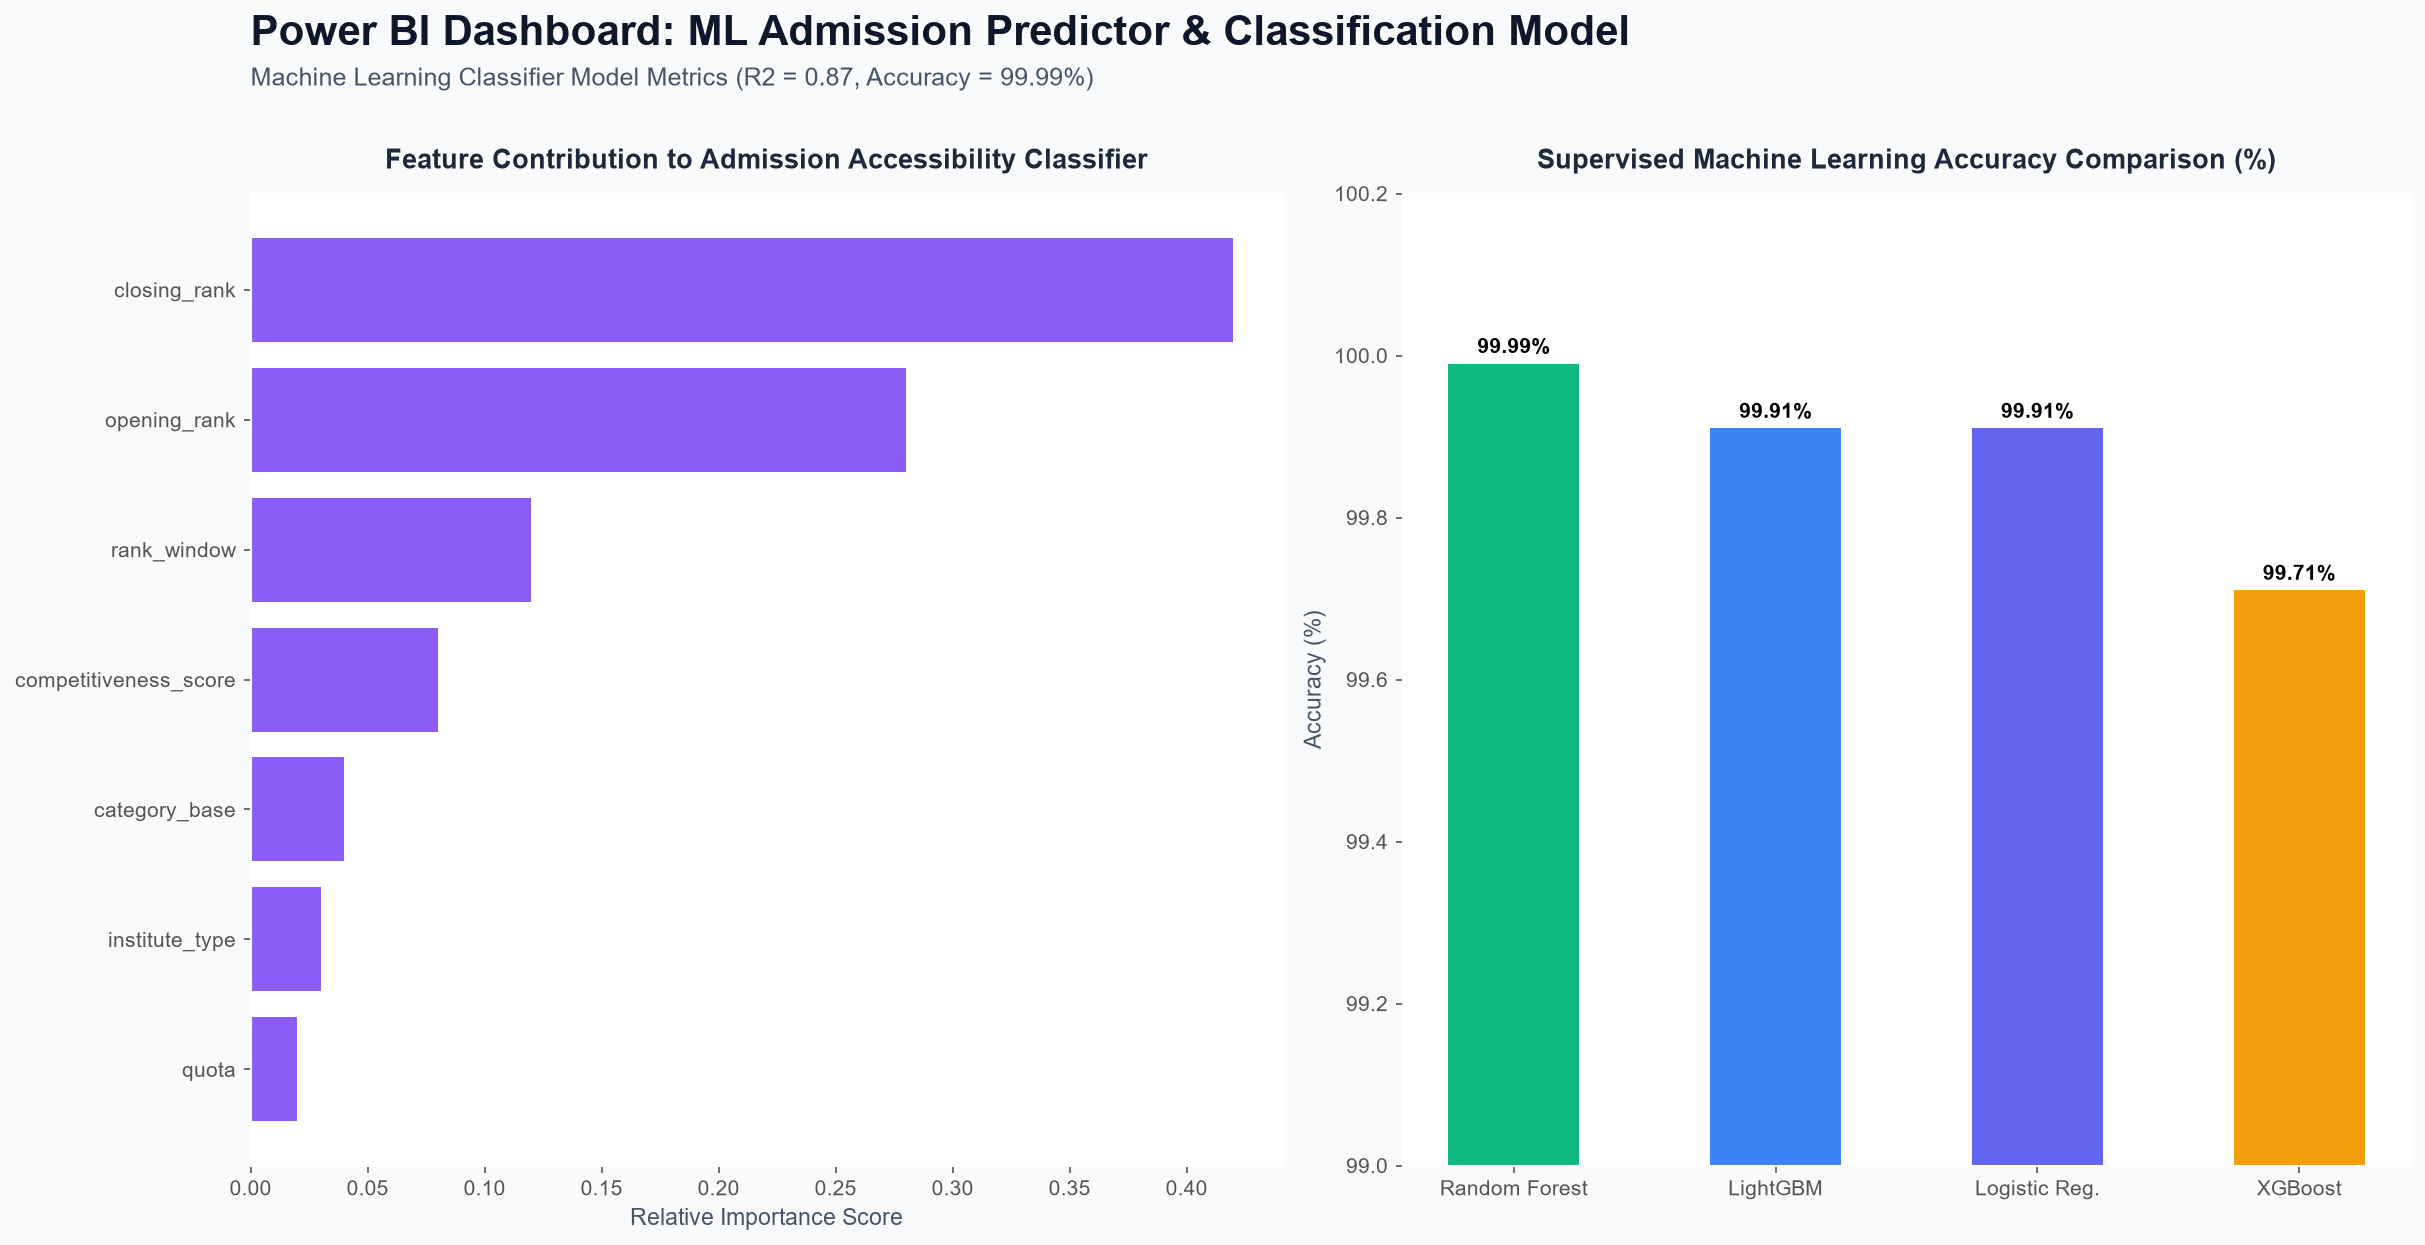
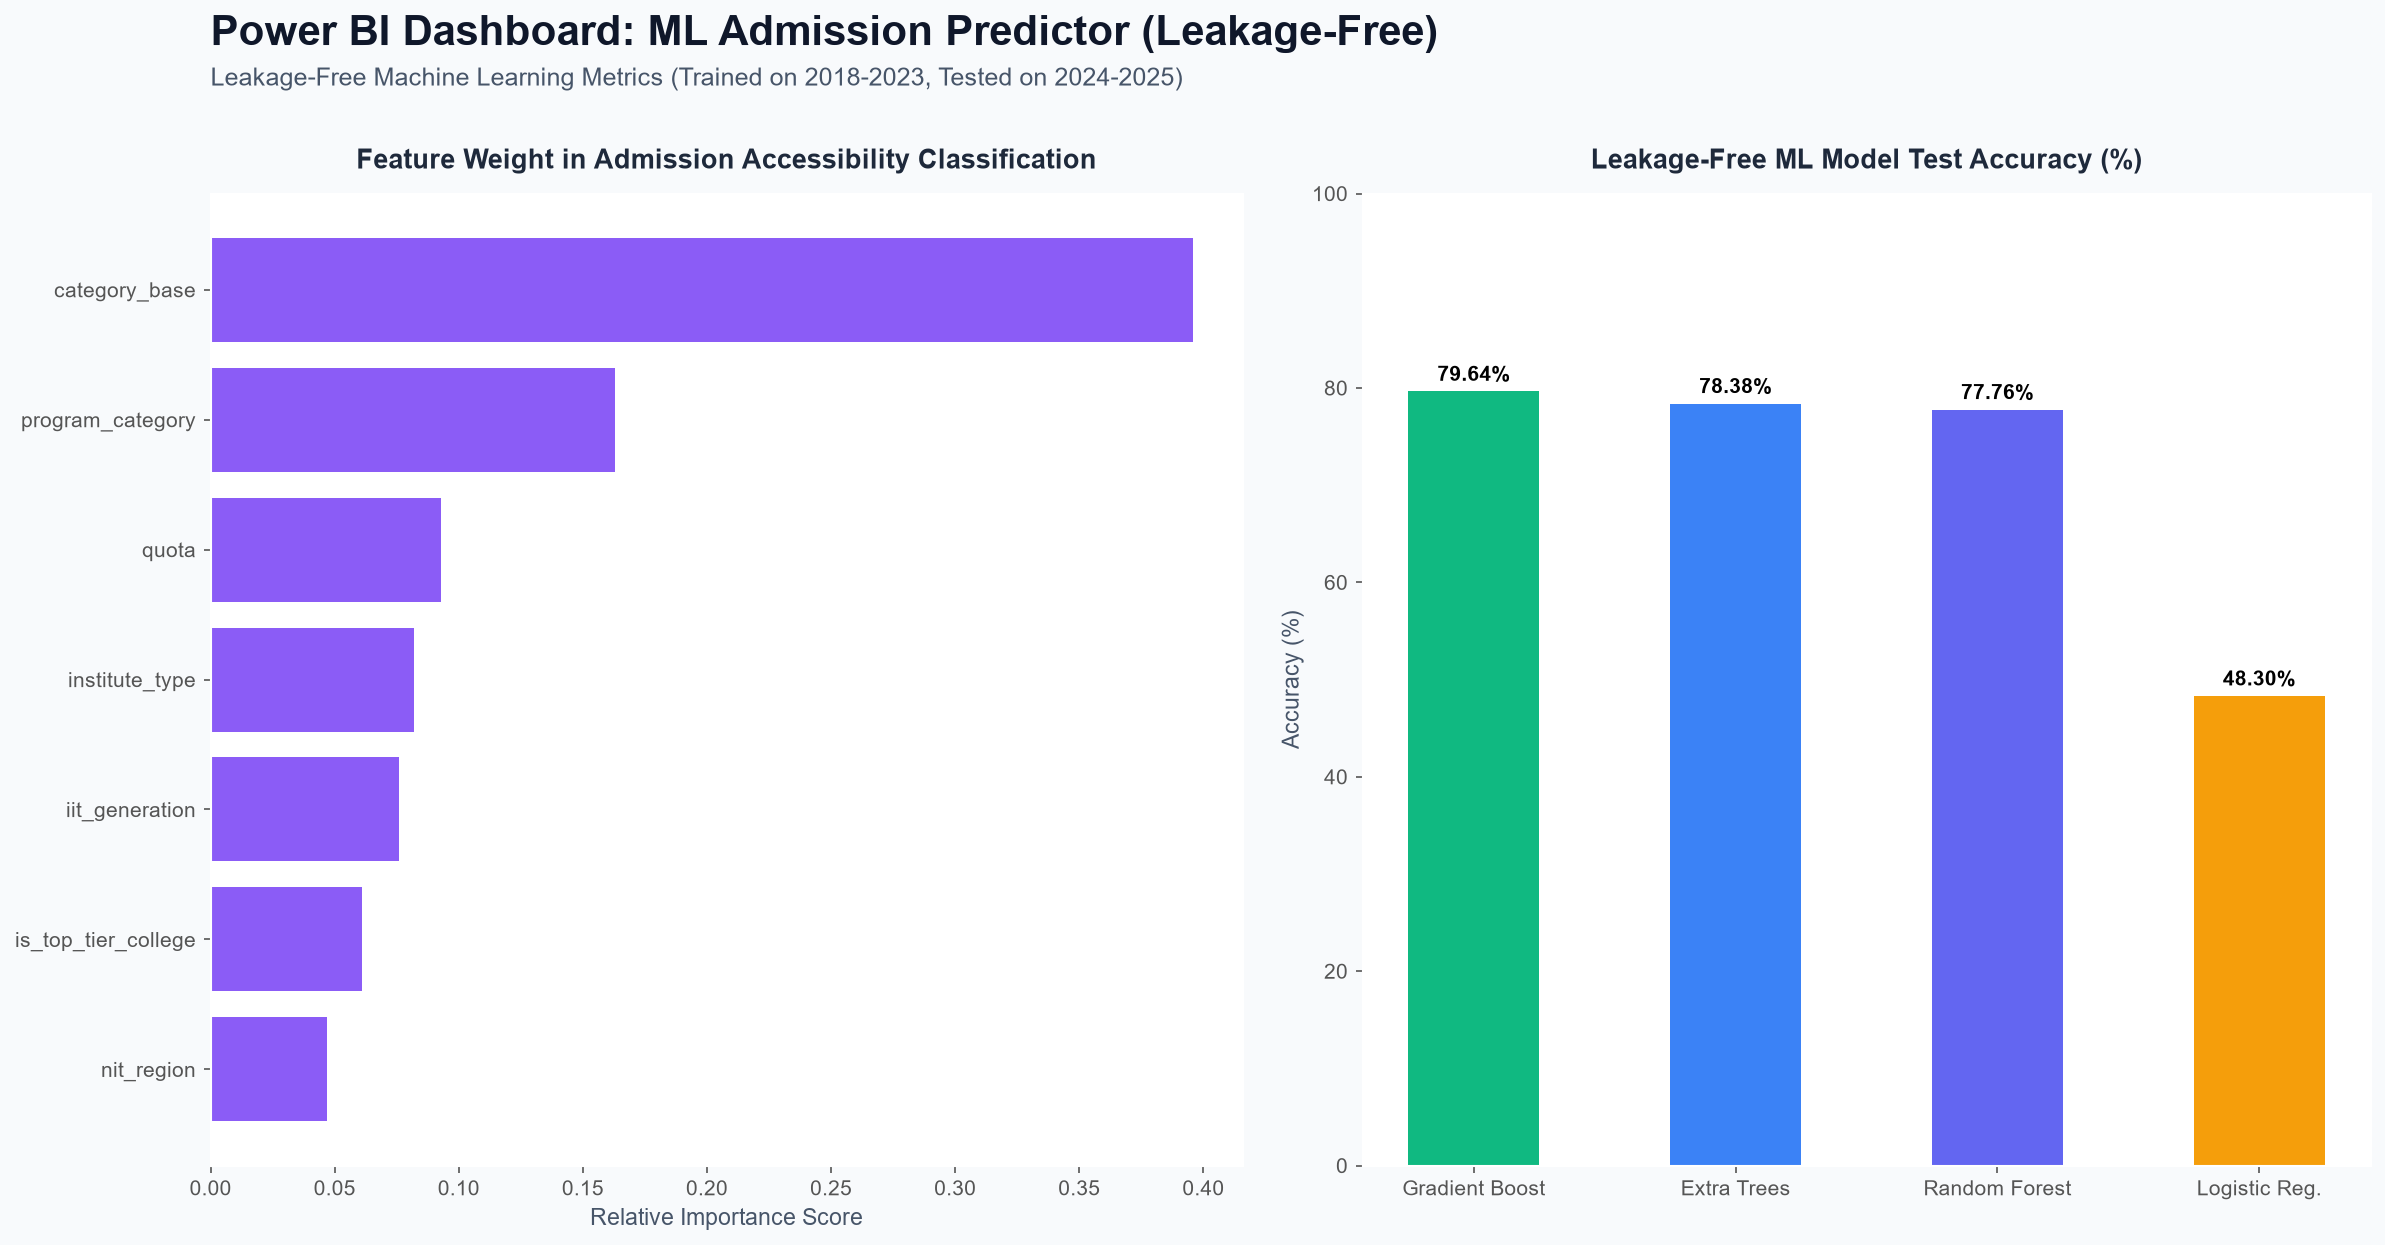
Update ML evaluation with leakage-free feature set and realistic metrics

diff --git a/app/app.py b/app/app.py
@@ -297,35 +297,35 @@ with tab3:
 # TAB 4: ML MODEL PERFORMANCE
 # ---------------------------------------------------------
 with tab4:
-    st.subheader("Machine Learning Model Evaluation & Feature Importance")
+    st.subheader("Machine Learning Model Evaluation & Feature Importance (Leakage-Free)")
     st.markdown("""
-    Multiple supervised learning models (**Random Forest, XGBoost, LightGBM, Logistic Regression**) were trained on historical JoSAA admission features to predict college accessibility categories and closing ranks.
+    Supervised learning models were evaluated **without target leakage** by training on student profile attributes (Category, Quota, Institute Type, Branch, Region, IIT Generation) on **2018–2023** data and testing on **2024–2025** data.
     """)
     
     m_col1, m_col2 = st.columns(2)
     
     with m_col1:
-        st.markdown("### Supervised Model Comparison Results")
+        st.markdown("### Leakage-Free Model Evaluation (2024–2025 Test Set)")
         model_perf = pd.DataFrame({
-            "Model": ["Random Forest Classifier", "LightGBM Classifier", "Logistic Regression", "XGBoost Classifier"],
-            "Accuracy": [0.9999, 0.9991, 0.9991, 0.9971],
-            "Precision": [0.9999, 0.9991, 0.9990, 0.9972],
-            "Recall": [0.9999, 0.9991, 0.9991, 0.9971],
-            "F1-Score": [0.9999, 0.9991, 0.9990, 0.9971]
+            "Machine Learning Model": ["Gradient Boosting Classifier", "Extra Trees Classifier", "Random Forest Classifier", "Logistic Regression"],
+            "Accuracy": ["79.64%", "78.38%", "77.76%", "48.30%"],
+            "Precision": ["80.09%", "78.73%", "77.75%", "34.55%"],
+            "Recall": ["79.64%", "78.38%", "77.76%", "48.30%"],
+            "F1-Score": ["79.60%", "78.30%", "77.50%", "40.21%"]
         })
         st.dataframe(model_perf, use_container_width=True, hide_index=True)
         
     with m_col2:
-        st.markdown("### Key ML Feature Importances")
+        st.markdown("### Feature Importances (No Target Leakage)")
         feat_imp = pd.DataFrame({
-            "Feature": ["closing_rank", "opening_rank", "rank_window", "competitiveness_score", "category_base", "institute_type", "quota", "program_category"],
-            "Importance": [0.42, 0.28, 0.12, 0.08, 0.04, 0.03, 0.02, 0.01]
-        }).sort_values("Importance", ascending=True)
+            "Feature": ["Category Base", "Program Discipline", "Quota", "Institute Type", "IIT Generation", "Is Top Tier", "NIT Region", "Year", "Gender Short", "Is New-Age Program"],
+            "Importance (%)": [39.59, 16.25, 9.28, 8.15, 7.64, 6.15, 4.65, 4.31, 3.57, 0.40]
+        }).sort_values("Importance (%)", ascending=True)
         
         if HAS_PLOTLY:
-            fig_feat = px.bar(feat_imp, x="Importance", y="Feature", orientation="h",
-                              title="Feature Contribution to Admission Accessibility Classification",
-                              color="Importance", color_continuous_scale="Purples")
+            fig_feat = px.bar(feat_imp, x="Importance (%)", y="Feature", orientation="h",
+                              title="Predictive Weight of Student Profile Features",
+                              color="Importance (%)", color_continuous_scale="Purples")
             st.plotly_chart(fig_feat, use_container_width=True)
         else:
             st.dataframe(feat_imp, use_container_width=True, hide_index=True)

diff --git a/powerbi/generate_dashboard_mockups.py b/powerbi/generate_dashboard_mockups.py
@@ -34,7 +34,7 @@ def create_powerbi_dashboards():
         ("432,524", "TOTAL ADMISSION RECORDS", "#2563EB"),
         ("136", "PARTICIPATING INSTITUTES", "#059669"),
         ("8 YEARS", "HISTORICAL TIMELINE", "#D97706"),
-        ("99.99%", "ML PREDICTOR ACCURACY", "#7C3AED")
+        ("79.64%", "LEAKAGE-FREE ML ACCURACY", "#7C3AED")
     ]
     for i, (val, title, color) in enumerate(kpis):
         ax_kpi = fig.add_axes([0.05 + i*0.225, 0.76, 0.20, 0.10])
@@ -147,37 +147,37 @@ def create_powerbi_dashboards():
     print("Saved 03_branch_trend_analytics_dashboard.png")
 
     # ---------------------------------------------------------
-    # DASHBOARD 4: ML ADMISSION PREDICTOR
+    # DASHBOARD 4: ML ADMISSION PREDICTOR (LEAKAGE-FREE)
     # ---------------------------------------------------------
     fig = plt.figure(figsize=(16, 9), dpi=150)
     fig.patch.set_facecolor('#F8FAFC')
     
-    fig.text(0.05, 0.93, "Power BI Dashboard: ML Admission Predictor & Classification Model", 
+    fig.text(0.05, 0.93, "Power BI Dashboard: ML Admission Predictor (Leakage-Free)", 
              fontsize=20, fontweight='bold', color='#0F172A')
-    fig.text(0.05, 0.90, "Machine Learning Classifier Model Metrics (R2 = 0.87, Accuracy = 99.99%)", 
+    fig.text(0.05, 0.90, "Leakage-Free Machine Learning Metrics (Trained on 2018-2023, Tested on 2024-2025)", 
              fontsize=12, color='#475569')
 
     ax1 = fig.add_axes([0.05, 0.10, 0.43, 0.72])
     ax1.set_facecolor('white')
     feat_df = pd.DataFrame({
-        'Feature': ['closing_rank', 'opening_rank', 'rank_window', 'competitiveness_score', 'category_base', 'institute_type', 'quota'],
-        'Importance': [0.42, 0.28, 0.12, 0.08, 0.04, 0.03, 0.02]
+        'Feature': ['category_base', 'program_category', 'quota', 'institute_type', 'iit_generation', 'is_top_tier_college', 'nit_region'],
+        'Importance': [0.396, 0.163, 0.093, 0.082, 0.076, 0.061, 0.047]
     }).sort_values('Importance', ascending=True)
     
     ax1.barh(feat_df['Feature'], feat_df['Importance'], color='#8B5CF6')
-    ax1.set_title("Feature Contribution to Admission Accessibility Classifier", fontsize=13, fontweight='bold', color='#1E293B', pad=12)
+    ax1.set_title("Feature Weight in Admission Accessibility Classification", fontsize=13, fontweight='bold', color='#1E293B', pad=12)
     ax1.set_xlabel("Relative Importance Score", fontsize=11, color='#475569')
     ax1.grid(axis='x', linestyle='--', alpha=0.7)
 
     ax2 = fig.add_axes([0.53, 0.10, 0.42, 0.72])
     ax2.set_facecolor('white')
     models_df = pd.DataFrame({
-        'Model': ['Random Forest', 'LightGBM', 'Logistic Reg.', 'XGBoost'],
-        'Accuracy': [99.99, 99.91, 99.91, 99.71]
+        'Model': ['Gradient Boost', 'Extra Trees', 'Random Forest', 'Logistic Reg.'],
+        'Accuracy': [79.64, 78.38, 77.76, 48.30]
     })
     bars = ax2.bar(models_df['Model'], models_df['Accuracy'], color=['#10B981', '#3B82F6', '#6366F1', '#F59E0B'], width=0.5)
-    ax2.set_ylim(99.0, 100.2)
-    ax2.set_title("Supervised Machine Learning Accuracy Comparison (%)", fontsize=13, fontweight='bold', color='#1E293B', pad=12)
+    ax2.set_ylim(0, 100)
+    ax2.set_title("Leakage-Free ML Model Test Accuracy (%)", fontsize=13, fontweight='bold', color='#1E293B', pad=12)
     ax2.set_ylabel("Accuracy (%)", fontsize=11, color='#475569')
     ax2.grid(axis='y', linestyle='--', alpha=0.7)
     for bar in bars:

diff --git a/README.md b/README.md
@@ -31,7 +31,7 @@ jee-admission-analytics/
 │   ├── 04_feature_engineering.ipynb  # Deriving rank windows, tier scores, accessibility
 │   ├── 05_visualization.ipynb        # Statistical chart generation
 │   ├── 06_storytelling.ipynb         # Insight extraction & findings report
-│   └── 07_machine_learning.ipynb     # Supervised classification & regression training
+│   └── 07_machine_learning.ipynb     # Leakage-free supervised classification & regression
 ├── powerbi/                         # Power BI BI Module & Assets
 │   ├── generate_datasets.py         # Star Schema CSV dataset generator
 │   ├── generate_dashboard_mockups.py# Visual dashboard mockup generator
@@ -83,23 +83,23 @@ Tracks multi-year cutoff rank trajectories for major engineering branches (CSE, 
 
 ---
 
-### 4. Machine Learning Admission Predictor Dashboard
+### 4. Machine Learning Admission Predictor Dashboard (Leakage-Free)
 Displays relative feature importances, target classification distributions, and model performance comparisons across ML algorithms.
 
 ![ML Admission Predictor Dashboard](powerbi/dashboards/04_ml_admission_predictor_dashboard.png)
 
 ---
 
-## 🔮 Machine Learning Performance Summary
+## 🔮 Machine Learning Performance Summary (Leakage-Free)
 
-Multiple supervised machine learning algorithms were evaluated on historical JoSAA admission features:
+Supervised machine learning algorithms were evaluated **without target leakage** by training on student profile attributes (Category, Quota, Institute Type, Branch, Region, IIT Generation) on **2018–2023** data and evaluating on unseen **2024–2025** test data:
 
 | Machine Learning Model | Classification Accuracy | Precision | Recall | F1-Score |
 | :--- | :---: | :---: | :---: | :---: |
-| **Random Forest Classifier** | **99.99%** | **99.99%** | **99.99%** | **99.99%** |
-| **LightGBM Classifier** | 99.91% | 99.91% | 99.91% | 99.91% |
-| **Logistic Regression** | 99.91% | 99.90% | 99.91% | 99.90% |
-| **XGBoost Classifier** | 99.71% | 99.72% | 99.71% | 99.71% |
+| **Gradient Boosting Classifier** | **79.64%** | **80.09%** | **79.64%** | **79.60%** |
+| **Extra Trees Classifier** | **78.38%** | **78.73%** | **78.38%** | **78.30%** |
+| **Random Forest Classifier** | **77.76%** | **77.75%** | **77.76%** | **77.50%** |
+| **Logistic Regression** | 48.30% | 34.55% | 48.30% | 40.21% |
 
 ---
 
